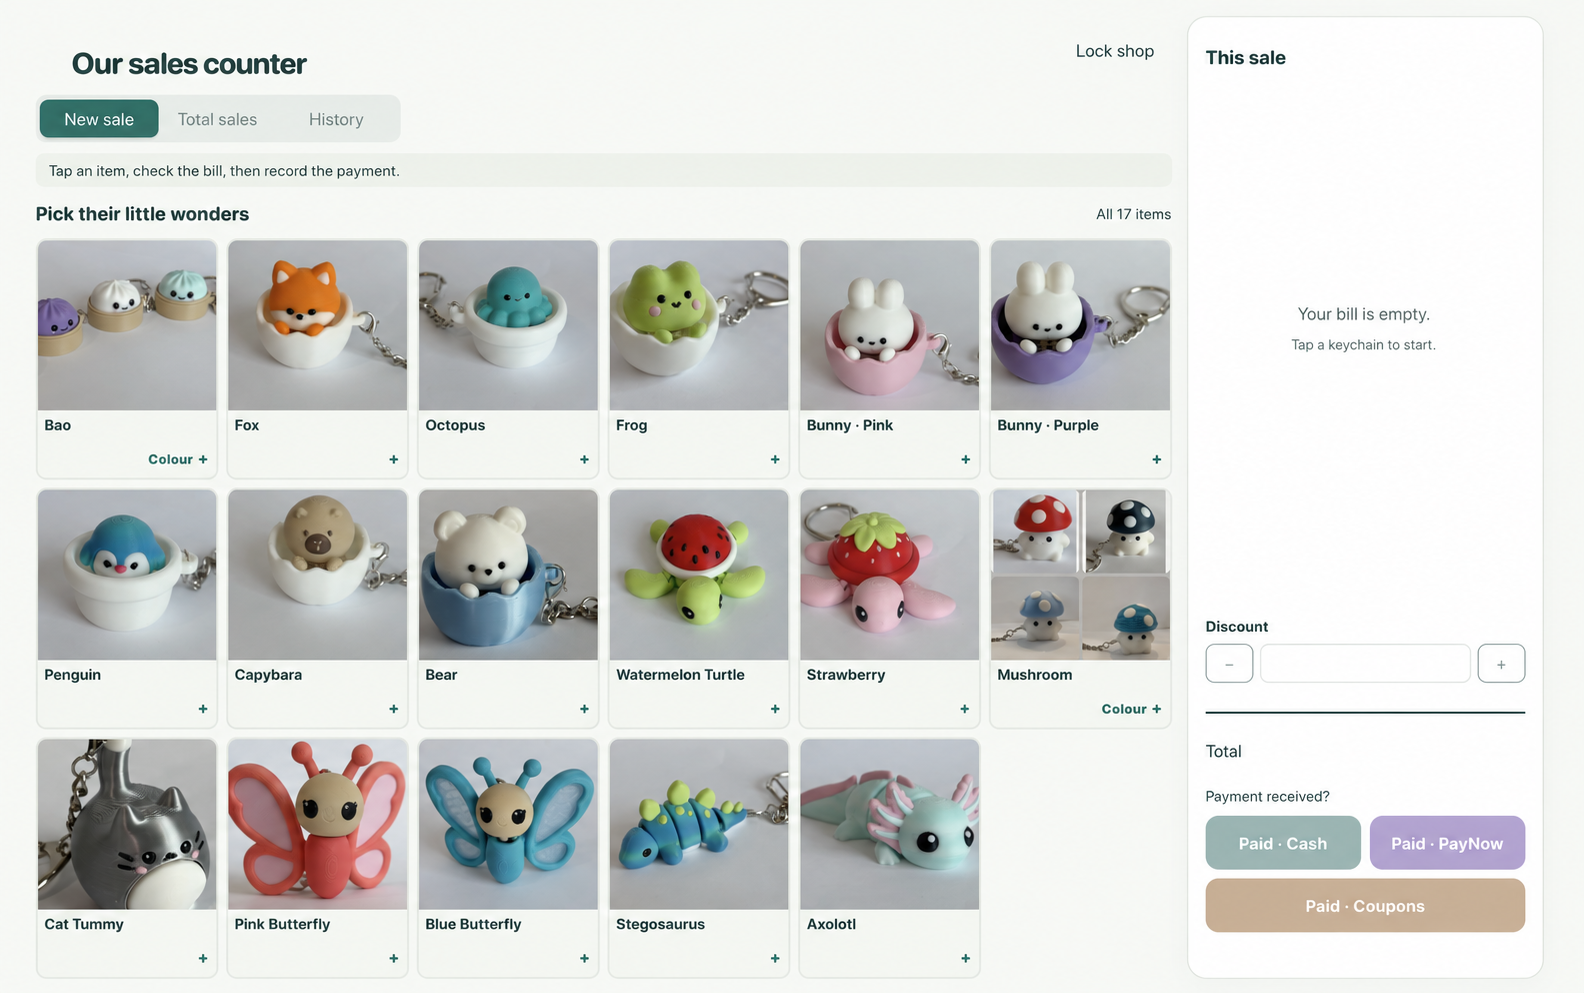
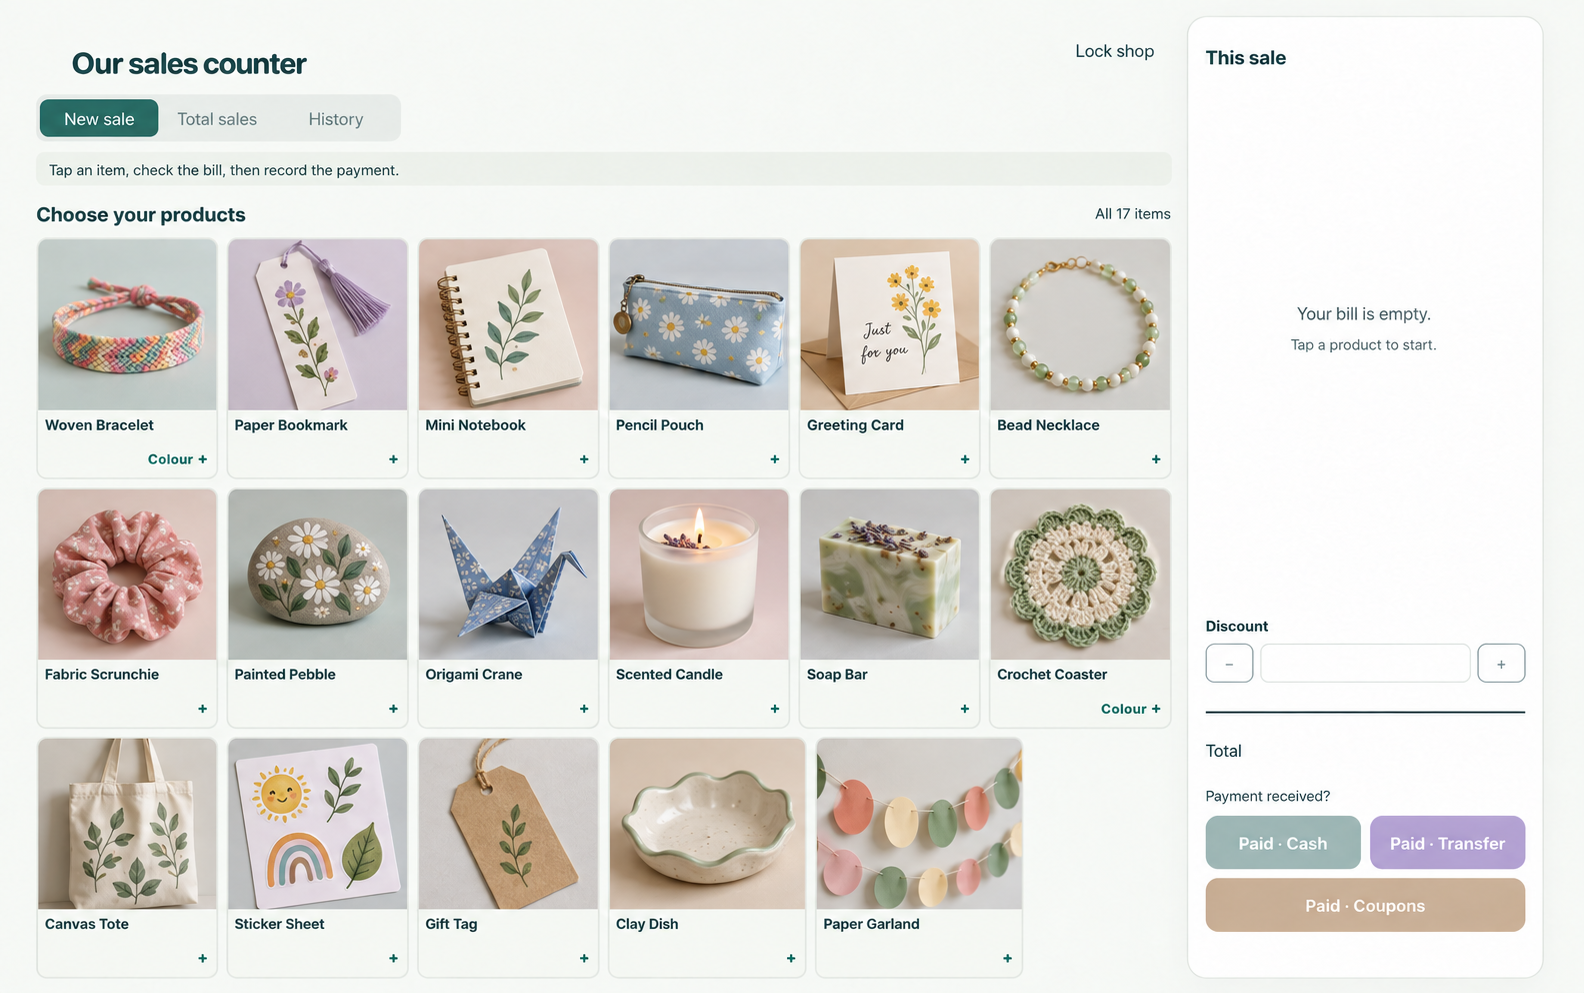
Replace family product screenshot with fully synthetic demo

diff --git a/README.md b/README.md
@@ -2,9 +2,9 @@
 
 A free sales counter for family stalls and community fairs. Tap a product, check the bill and record the sale. Build your own version with ChatGPT—no coding experience needed.
 
-![Example of a customised sales counter](docs/images/sales-counter-preview.png)
+![AI-generated example sales counter with fictional products](docs/images/sales-counter-preview.png)
 
-*This example shows what you can make. Your app starts blank, ready for your own products, photos and prices.*
+*AI-generated preview with fictional product images and names. Your app starts blank, ready for your own products, photos and prices.*
 
 ## Get started
 
